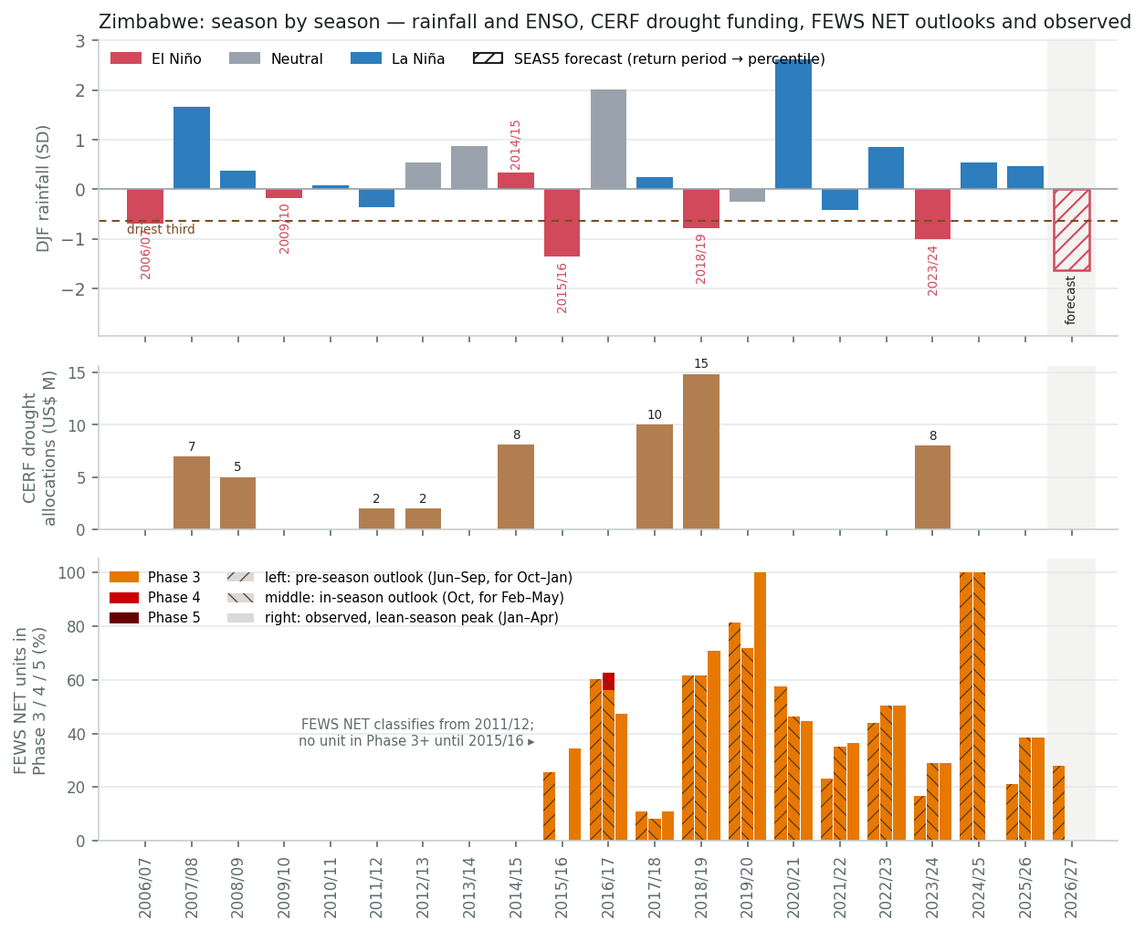
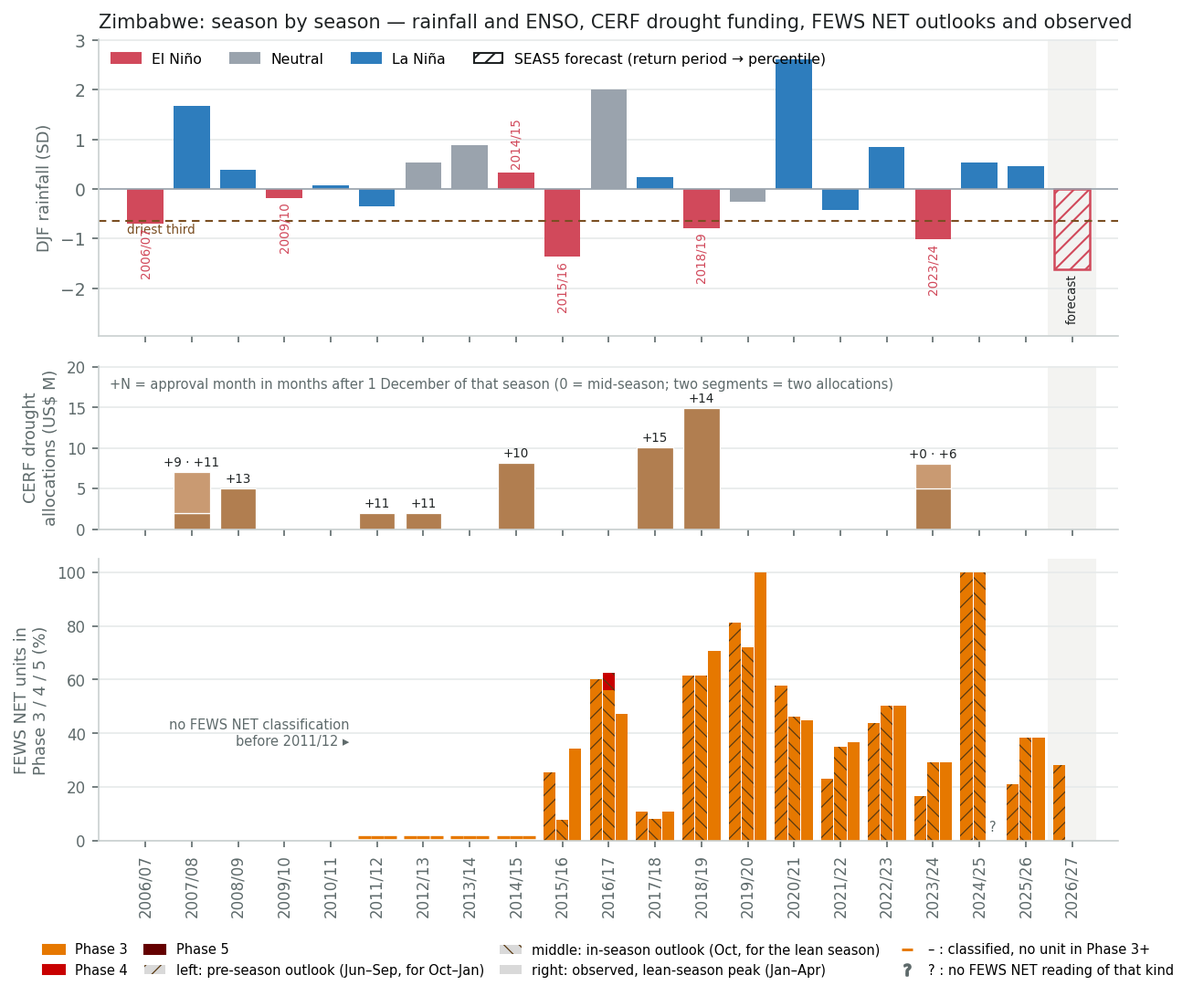
Season figure: CERF timing labels, FEWS NET zeros vs missing readings
Each CERF allocation is its own bar segment, labelled above the bar with its
approval month counted in months after 1 December of that season; the table's
CERF cell carries the same "+N mo". In the FEWS NET panel a classified reading
with no unit in Phase 3+ shows a dash, a reading FEWS NET did not publish shows
a question mark; the in-season outlook accepts the October round's second
window whether it starts in January (pre-2016 calendar) or February. Legend
moved below the axis so it no longer covers the 2019/20 bars.

diff --git a/docs/enso/zwe/index.html b/docs/enso/zwe/index.html
@@ -98,28 +98,28 @@ a{color:var(--b6)}
 <h2>Season by season: rainfall, El Niño, CERF and FEWS NET</h2>
 <p>Every season since 1981 on one line: how dry it was, whether it was an El Niño season, whether CERF funded a drought response for it, and what FEWS NET was projecting for October–January before that season began — the same product as the projection we have now, so the rows are comparable with the top one. Phase 4 (Emergency) has appeared once in FEWS NET's Zimbabwe record — the October 2016 outlook projected twelve southern units into Emergency for February–April 2017, the lean season after the 2015/16 drought — and never in a current-situation classification; Phase 5 never. The El Niño seasons that became disasters started from very different places: 2015/16 from 26% of units projected in Crisis, 2023/24 from 17%; the seasons after them (2016/17, 2024/25) began from 60% and 100%. 2026/27 begins from 28%.</p>
 
-<figure><img src="seasons.png" alt="Season-by-season time series"><figcaption>The table as a time series: DJF rainfall anomaly coloured by ENSO phase (hatched = the SEAS5 forecast for the coming season, its return period converted to a percentile); CERF drought allocations by season; and, per season, three FEWS NET readings as stacked shares of units in Phase 3, 4 and 5 — the pre-season outlook (issued June–September for October–January, the product we have now), the in-season outlook (issued in October for February–May) and the observed current situation at the lean-season peak (January–April). From 2006/07, when CERF began. Shaded column = the season being forecast.</figcaption></figure>
+<figure><img src="seasons.png" alt="Season-by-season time series"><figcaption>The table as a time series: DJF rainfall anomaly coloured by ENSO phase (hatched = the SEAS5 forecast for the coming season, its return period converted to a percentile); CERF drought allocations by season, each labelled with its approval month and its timing in months after 1 December of that season; and, per season, three FEWS NET readings as stacked shares of units in Phase 3, 4 and 5 — the pre-season outlook (issued June–September for October–January, the product we have now), the in-season outlook (issued in October for the January/February–April/May lean season) and the observed current situation at the lean-season peak (January–April); a dash marks a classification with no unit in Phase 3+, a question mark a reading FEWS NET did not publish. From 2006/07, when CERF began. Shaded column = the season being forecast.</figcaption></figure>
 <div style="overflow-x:auto"><table class="skill seasons"><thead><tr><th>Season</th><th class="num">DJF rainfall<br><span class="small">anomaly (SD) · rank, 1 = driest</span></th><th>ENSO<br><span class="small">Niño3.4 in DJF</span></th><th>CERF drought allocation<br><span class="small">for this season's drought</span></th><th class="num">FEWS NET outlook for Oct–Jan, issued before the season<br><span class="small">share of units in Phase 3 / 4 / 5</span></th></tr></thead><tbody>
 <tr style="border-top:2px solid #c9d0d0"><td><strong>2026/27 (forecast)</strong></td><td class="num"><span class="small">SEAS5 Sep issuance: dry, return period 19 yr (moderate skill)</span></td><td><span class="chip" style="background:#D1495B;color:#fff;margin:0">El Niño</span> <span class="small">+1.89 in Aug 2026</span></td><td><span class=small>—</span></td><td class="num" style="background:rgba(230,120,0,0.23)">28% / 0% / 0%<br><span class="small">Oct 2026–Jan 2027 · round 2026-08 (ML2) · 203 units</span></td></tr>
 <tr><td>2025/26</td><td class="num" style="background:rgba(94,159,210,0.18)">+0.47 · 32 of 45</td><td><span class="chip" style="background:#2E7DBD;color:#fff;margin:0">La Niña</span> <span class="small">-0.51</span></td><td><span class=small>—</span></td><td class="num" style="background:rgba(230,120,0,0.20)">21% / 0% / 0%<br><span class="small">Oct 2025–Jan 2026 · round 2025-10 (ML1, issued in October) · 203 units</span></td></tr>
 <tr><td>2024/25</td><td class="num" style="background:rgba(94,159,210,0.19)">+0.54 · 33 of 45</td><td><span class="chip" style="background:#2E7DBD;color:#fff;margin:0">La Niña</span> <span class="small">-0.59</span></td><td><span class=small>—</span></td><td class="num" style="background:rgba(230,120,0,0.63)">100% / 0% / 0%<br><span class="small">Oct 2024–Jan 2025 · round 2024-09 (ML2) · 203 units</span></td></tr>
-<tr><td>2023/24</td><td class="num" style="background:rgba(122,78,34,0.44)">−1.00 · 9 of 45</td><td><span class="chip" style="background:#D1495B;color:#fff;margin:0">El Niño</span> <span class="small">+1.79</span></td><td style="background:rgba(177,126,80,0.38)">US$ 8.0 M · Dec 2023 (Rapid, 5.0 M); Jun 2024 (Rapid, 3.0 M)</td><td class="num" style="background:rgba(230,120,0,0.17)">17% / 0% / 0%<br><span class="small">Oct 2023–Jan 2024 · round 2023-09 (ML2) · 203 units</span></td></tr>
+<tr><td>2023/24</td><td class="num" style="background:rgba(122,78,34,0.44)">−1.00 · 9 of 45</td><td><span class="chip" style="background:#D1495B;color:#fff;margin:0">El Niño</span> <span class="small">+1.79</span></td><td style="background:rgba(177,126,80,0.38)">US$ 8.0 M · Dec 2023 (Rapid, 5.0 M, +0 mo); Jun 2024 (Rapid, 3.0 M, +6 mo)</td><td class="num" style="background:rgba(230,120,0,0.17)">17% / 0% / 0%<br><span class="small">Oct 2023–Jan 2024 · round 2023-09 (ML2) · 203 units</span></td></tr>
 <tr><td>2022/23</td><td class="num" style="background:rgba(94,159,210,0.23)">+0.85 · 36 of 45</td><td><span class="chip" style="background:#2E7DBD;color:#fff;margin:0">La Niña</span> <span class="small">-0.68</span></td><td><span class=small>—</span></td><td class="num" style="background:rgba(230,120,0,0.32)">44% / 0% / 0%<br><span class="small">Oct 2022–Jan 2023 · round 2022-09 (ML2) · 189 units</span></td></tr>
 <tr><td>2021/22</td><td class="num" style="background:rgba(122,78,34,0.23)">−0.42 · 17 of 45</td><td><span class="chip" style="background:#2E7DBD;color:#fff;margin:0">La Niña</span> <span class="small">-0.96</span></td><td><span class=small>—</span></td><td class="num" style="background:rgba(230,120,0,0.21)">23% / 0% / 0%<br><span class="small">Oct 2021–Jan 2022 · round 2021-09 (ML2) · 203 units</span></td></tr>
 <tr><td>2020/21</td><td class="num" style="background:rgba(94,159,210,0.35)">+2.62 · 45 of 45</td><td><span class="chip" style="background:#2E7DBD;color:#fff;margin:0">La Niña</span> <span class="small">-1.05</span></td><td><span class=small>—</span></td><td class="num" style="background:rgba(230,120,0,0.40)">58% / 0% / 0%<br><span class="small">Oct 2020–Jan 2021 · round 2020-09 (ML2) · 203 units</span></td></tr>
 <tr><td>2019/20</td><td class="num" style="background:rgba(122,78,34,0.15)">−0.25 · 20 of 45</td><td><span class="chip" style="background:#9AA3AD;color:#fff;margin:0">Neutral</span> <span class="small">+0.50</span></td><td><span class=small>—</span></td><td class="num" style="background:rgba(230,120,0,0.53)">81% / 0% / 0%<br><span class="small">Oct 2019–Jan 2020 · round 2019-06 (ML2) · 203 units</span></td></tr>
-<tr><td>2018/19</td><td class="num" style="background:rgba(122,78,34,0.39)">−0.78 · 11 of 45</td><td><span class="chip" style="background:#D1495B;color:#fff;margin:0">El Niño</span> <span class="small">+0.75</span></td><td style="background:rgba(177,126,80,0.63)">US$ 14.9 M · Feb 2020 (Rapid, 14.9 M)</td><td class="num" style="background:rgba(230,120,0,0.42)">62% / 0% / 0%<br><span class="small">Oct 2018–Dec 2018 · round 2018-06 (ML2) · 203 units</span></td></tr>
-<tr><td>2017/18</td><td class="num" style="background:rgba(94,159,210,0.08)">+0.25 · 25 of 45</td><td><span class="chip" style="background:#2E7DBD;color:#fff;margin:0">La Niña</span> <span class="small">-0.91</span></td><td style="background:rgba(177,126,80,0.45)">US$ 10.1 M · Mar 2019 (Rapid, 10.1 M)</td><td class="num" style="background:rgba(230,120,0,0.14)">11% / 0% / 0%<br><span class="small">Oct 2017–Dec 2017 · round 2017-06 (ML2) · 203 units</span></td></tr>
+<tr><td>2018/19</td><td class="num" style="background:rgba(122,78,34,0.39)">−0.78 · 11 of 45</td><td><span class="chip" style="background:#D1495B;color:#fff;margin:0">El Niño</span> <span class="small">+0.75</span></td><td style="background:rgba(177,126,80,0.63)">US$ 14.9 M · Feb 2020 (Rapid, 14.9 M, +14 mo)</td><td class="num" style="background:rgba(230,120,0,0.42)">62% / 0% / 0%<br><span class="small">Oct 2018–Dec 2018 · round 2018-06 (ML2) · 203 units</span></td></tr>
+<tr><td>2017/18</td><td class="num" style="background:rgba(94,159,210,0.08)">+0.25 · 25 of 45</td><td><span class="chip" style="background:#2E7DBD;color:#fff;margin:0">La Niña</span> <span class="small">-0.91</span></td><td style="background:rgba(177,126,80,0.45)">US$ 10.1 M · Mar 2019 (Rapid, 10.1 M, +15 mo)</td><td class="num" style="background:rgba(230,120,0,0.14)">11% / 0% / 0%<br><span class="small">Oct 2017–Dec 2017 · round 2017-06 (ML2) · 203 units</span></td></tr>
 <tr><td>2016/17</td><td class="num" style="background:rgba(94,159,210,0.34)">+2.01 · 44 of 45</td><td><span class="chip" style="background:#9AA3AD;color:#fff;margin:0">Neutral</span> <span class="small">-0.34</span></td><td><span class=small>—</span></td><td class="num" style="background:rgba(230,120,0,0.41)">60% / 0% / 0%<br><span class="small">Oct 2016–Dec 2016 · round 2016-06 (ML2) · 203 units</span></td></tr>
 <tr><td>2015/16</td><td class="num" style="background:rgba(122,78,34,0.63)">−1.36 · 2 of 45</td><td><span class="chip" style="background:#D1495B;color:#fff;margin:0">El Niño</span> <span class="small">+2.50</span></td><td><span class=small>—</span></td><td class="num" style="background:rgba(230,120,0,0.22)">26% / 0% / 0%<br><span class="small">Oct 2015–Dec 2015 · round 2015-07 (ML2) · 203 units</span></td></tr>
-<tr><td>2014/15</td><td class="num" style="background:rgba(94,159,210,0.12)">+0.34 · 28 of 45</td><td><span class="chip" style="background:#D1495B;color:#fff;margin:0">El Niño</span> <span class="small">+0.55</span></td><td style="background:rgba(177,126,80,0.38)">US$ 8.1 M · Oct 2015 (Rapid, 8.1 M)</td><td class="num">0% / 0% / 0%<br><span class="small">Oct 2014–Dec 2014 · round 2014-07 (ML2) · 203 units</span></td></tr>
+<tr><td>2014/15</td><td class="num" style="background:rgba(94,159,210,0.12)">+0.34 · 28 of 45</td><td><span class="chip" style="background:#D1495B;color:#fff;margin:0">El Niño</span> <span class="small">+0.55</span></td><td style="background:rgba(177,126,80,0.38)">US$ 8.1 M · Oct 2015 (Rapid, 8.1 M, +10 mo)</td><td class="num">0% / 0% / 0%<br><span class="small">Oct 2014–Dec 2014 · round 2014-07 (ML2) · 203 units</span></td></tr>
 <tr><td>2013/14</td><td class="num" style="background:rgba(94,159,210,0.24)">+0.88 · 37 of 45</td><td><span class="chip" style="background:#9AA3AD;color:#fff;margin:0">Neutral</span> <span class="small">-0.43</span></td><td><span class=small>—</span></td><td class="num">0% / 0% / 0%<br><span class="small">Oct 2013–Dec 2013 · round 2013-07 (ML2) · 108 units</span></td></tr>
-<tr><td>2012/13</td><td class="num" style="background:rgba(94,159,210,0.20)">+0.54 · 34 of 45</td><td><span class="chip" style="background:#9AA3AD;color:#fff;margin:0">Neutral</span> <span class="small">-0.43</span></td><td style="background:rgba(177,126,80,0.15)">US$ 2.0 M · Nov 2013 (Rapid, 2.0 M)</td><td class="num">0% / 0% / 0%<br><span class="small">Oct 2012–Dec 2012 · round 2012-07 (ML2) · 68 units</span></td></tr>
-<tr><td>2011/12</td><td class="num" style="background:rgba(122,78,34,0.17)">−0.35 · 19 of 45</td><td><span class="chip" style="background:#2E7DBD;color:#fff;margin:0">La Niña</span> <span class="small">-0.87</span></td><td style="background:rgba(177,126,80,0.15)">US$ 2.0 M · Nov 2012 (Rapid, 2.0 M)</td><td class="num">0% / 0% / 0%<br><span class="small">Oct 2011–Dec 2011 · round 2011-07 (ML2) · 85 units</span></td></tr>
+<tr><td>2012/13</td><td class="num" style="background:rgba(94,159,210,0.20)">+0.54 · 34 of 45</td><td><span class="chip" style="background:#9AA3AD;color:#fff;margin:0">Neutral</span> <span class="small">-0.43</span></td><td style="background:rgba(177,126,80,0.15)">US$ 2.0 M · Nov 2013 (Rapid, 2.0 M, +11 mo)</td><td class="num">0% / 0% / 0%<br><span class="small">Oct 2012–Dec 2012 · round 2012-07 (ML2) · 68 units</span></td></tr>
+<tr><td>2011/12</td><td class="num" style="background:rgba(122,78,34,0.17)">−0.35 · 19 of 45</td><td><span class="chip" style="background:#2E7DBD;color:#fff;margin:0">La Niña</span> <span class="small">-0.87</span></td><td style="background:rgba(177,126,80,0.15)">US$ 2.0 M · Nov 2012 (Rapid, 2.0 M, +11 mo)</td><td class="num">0% / 0% / 0%<br><span class="small">Oct 2011–Dec 2011 · round 2011-07 (ML2) · 85 units</span></td></tr>
 <tr><td>2010/11</td><td class="num" style="background:rgba(94,159,210,0.06)">+0.08 · 23 of 45</td><td><span class="chip" style="background:#2E7DBD;color:#fff;margin:0">La Niña</span> <span class="small">-1.42</span></td><td><span class=small>—</span></td><td class="num"><span class=small>—</span></td></tr>
 <tr><td>2009/10</td><td class="num" style="background:rgba(122,78,34,0.12)">−0.18 · 21 of 45</td><td><span class="chip" style="background:#D1495B;color:#fff;margin:0">El Niño</span> <span class="small">+1.50</span></td><td><span class=small>—</span></td><td class="num"><span class=small>—</span></td></tr>
-<tr><td>2008/09</td><td class="num" style="background:rgba(94,159,210,0.15)">+0.38 · 30 of 45</td><td><span class="chip" style="background:#2E7DBD;color:#fff;margin:0">La Niña</span> <span class="small">-0.85</span></td><td style="background:rgba(177,126,80,0.26)">US$ 5.0 M · Jan 2010 (Rapid, 5.0 M, by date)</td><td class="num"><span class=small>—</span></td></tr>
-<tr><td>2007/08</td><td class="num" style="background:rgba(94,159,210,0.32)">+1.67 · 43 of 45</td><td><span class="chip" style="background:#2E7DBD;color:#fff;margin:0">La Niña</span> <span class="small">-1.64</span></td><td style="background:rgba(177,126,80,0.34)">US$ 7.0 M · Sep 2008 (Rapid, 2.0 M, by date); Nov 2008 (Rapid, 5.0 M, by date)</td><td class="num"><span class=small>—</span></td></tr>
+<tr><td>2008/09</td><td class="num" style="background:rgba(94,159,210,0.15)">+0.38 · 30 of 45</td><td><span class="chip" style="background:#2E7DBD;color:#fff;margin:0">La Niña</span> <span class="small">-0.85</span></td><td style="background:rgba(177,126,80,0.26)">US$ 5.0 M · Jan 2010 (Rapid, 5.0 M, +13 mo, by date)</td><td class="num"><span class=small>—</span></td></tr>
+<tr><td>2007/08</td><td class="num" style="background:rgba(94,159,210,0.32)">+1.67 · 43 of 45</td><td><span class="chip" style="background:#2E7DBD;color:#fff;margin:0">La Niña</span> <span class="small">-1.64</span></td><td style="background:rgba(177,126,80,0.34)">US$ 7.0 M · Sep 2008 (Rapid, 2.0 M, +9 mo, by date); Nov 2008 (Rapid, 5.0 M, +11 mo, by date)</td><td class="num"><span class=small>—</span></td></tr>
 <tr><td>2006/07</td><td class="num" style="background:rgba(122,78,34,0.28)">−0.69 · 15 of 45</td><td><span class="chip" style="background:#D1495B;color:#fff;margin:0">El Niño</span> <span class="small">+0.66</span></td><td><span class=small>—</span></td><td class="num"><span class=small>—</span></td></tr>
 <tr><td>2005/06</td><td class="num" style="background:rgba(94,159,210,0.26)">+0.92 · 38 of 45</td><td><span class="chip" style="background:#2E7DBD;color:#fff;margin:0">La Niña</span> <span class="small">-0.83</span></td><td><span class=small>—</span></td><td class="num"><span class=small>—</span></td></tr>
 <tr><td>2004/05</td><td class="num" style="background:rgba(122,78,34,0.33)">−0.76 · 13 of 45</td><td><span class="chip" style="background:#D1495B;color:#fff;margin:0">El Niño</span> <span class="small">+0.59</span></td><td><span class=small>—</span></td><td class="num"><span class=small>—</span></td></tr>
@@ -147,7 +147,7 @@ a{color:var(--b6)}
 <tr><td>1982/83</td><td class="num" style="background:rgba(122,78,34,0.57)">−1.29 · 4 of 45</td><td><span class="chip" style="background:#D1495B;color:#fff;margin:0">El Niño</span> <span class="small">+2.16</span></td><td><span class=small>—</span></td><td class="num"><span class=small>—</span></td></tr>
 <tr><td>1981/82</td><td class="num" style="background:rgba(122,78,34,0.52)">−1.16 · 6 of 45</td><td><span class="chip" style="background:#9AA3AD;color:#fff;margin:0">Neutral</span> <span class="small">-0.08</span></td><td><span class=small>—</span></td><td class="num"><span class=small>—</span></td></tr>
 </tbody></table></div>
-<p class="small">Rainfall: ERA5 area mean over the rain-fed cells, standardised over 1981–2026. ENSO phase: concurrent Niño3.4 (≥ +0.5 El Niño, ≤ −0.5 La Niña; pinned NOAA series). CERF: Rapid Response / Underfunded Emergencies applications with emergency type “Drought” from the team's OneGMS mirror, attributed to the rainy season named in the CERF drought-period supplement (or, failing that, to the season whose harvest year the allocation fell in; “by date”). FEWS NET: the outlook for October–January issued between June and September of that year — the same product as the current medium-term projection, so each row shows the pre-season picture that season started from — as shares of FEWS NET's classified units in Phase 3, 4 and 5 (unit counts, since older unit vintages carry no geometry; FEWS NET classifies areas and publishes no population by phase). “Issued in October” marks a year with no June–September outlook. Cells are shaded darker for worse outcomes; most recent season first, the forecast season on top.</p>
+<p class="small">Rainfall: ERA5 area mean over the rain-fed cells, standardised over 1981–2026. ENSO phase: concurrent Niño3.4 (≥ +0.5 El Niño, ≤ −0.5 La Niña; pinned NOAA series). CERF: Rapid Response / Underfunded Emergencies applications with emergency type “Drought” from the team's OneGMS mirror, attributed to the rainy season named in the CERF drought-period supplement (or, failing that, to the season whose harvest year the allocation fell in; “by date”); “+N mo” is the approval month counted from 1 December of that season. FEWS NET: the outlook for October–January issued between June and September of that year — the same product as the current medium-term projection, so each row shows the pre-season picture that season started from — as shares of FEWS NET's classified units in Phase 3, 4 and 5 (unit counts, since older unit vintages carry no geometry; FEWS NET classifies areas and publishes no population by phase). “Issued in October” marks a year with no June–September outlook. Cells are shaded darker for worse outcomes; most recent season first, the forecast season on top.</p>
 <h2>3. How much of this is El Niño?</h2>
 <p class="small">Latest Niño3.4 in NOAA PSL's current series: +1.89 °C for August 2026 (three-month mean +1.73), i.e. El Niño conditions by the ±0.5 threshold used on this page. The historical analysis below uses the survey's pinned Niño3.4 series (NOAA PSL, ERSST v5 basis), which runs about 0.2 °C cooler than the current ERSST v6 series.</p>
 <p>Two things establish how much of the forecast is El Niño: the current state of the Pacific, and how tightly Zimbabwe's rainfall has followed it. Everything below is computed from the ERA5 monthly grid and the NOAA Niño3.4 index used by the global survey, restricted to cells inside the country.</p>

diff --git a/enso_deep_dive.py b/enso_deep_dive.py
@@ -734,8 +734,10 @@ def load_fews(iso3: str) -> dict | None:
             rd = pick.reporting_date.max(); h = pick[pick.reporting_date == rd]
             entry["pre"] = share(h) | dict(round=rd, doc=h.doc.iloc[0], scenario=h.scenario.iloc[0], pre_season=bool(len(pre)),
                                            window=_window(h.projection_start.iloc[0], h.projection_end.iloc[0]))
-        # in-season outlook: window starting 1 Feb Y+1, issued Oct Y – Jan Y+1 (earliest such round = the October outlook)
-        g = ml[(ml.projection_start == f"{yr + 1}-02-01") & (ml.reporting_date >= f"{yr}-10") & (ml.reporting_date <= f"{yr + 1}-01")]
+        # in-season outlook: the October outlook's second window (starts 1 Jan or 1 Feb Y+1 depending on the
+        # era's calendar), issued Oct Y – Jan Y+1; earliest such round = the October outlook
+        g = ml[(ml.projection_start >= f"{yr + 1}-01-01") & (ml.projection_start <= f"{yr + 1}-02-01")
+               & (ml.reporting_date >= f"{yr}-10") & (ml.reporting_date <= f"{yr + 1}-01")]
         if len(g):
             rd = g.reporting_date.min(); h = g[g.reporting_date == rd]
             entry["mid"] = share(h) | dict(round=rd, doc=h.doc.iloc[0], scenario=h.scenario.iloc[0],
@@ -951,7 +953,7 @@ def season_table(iso3: str, df: pd.DataFrame, head: str, fews: dict | None, fore
     def build_row(yr: int, r):
         cy0, cy1 = pd.Timestamp(yr + 1, 4, 1), pd.Timestamp(yr + 2, 3, 31)   # consumption year
         # CERF: supplement valid period first, else allocation date in the consumption year
-        cerf_txt, cerf_usd = "", 0.0
+        cerf_txt, cerf_usd, cerf_items = "", 0.0, []
         if len(cerf):
             def season_of(a):
                 """Season the allocation responds to: the supplement's dated rainy season when present
@@ -966,10 +968,15 @@ def season_table(iso3: str, df: pd.DataFrame, head: str, fews: dict | None, fore
             hits = cerf[[y == yr for y, _ in att]]
             dated = [ok for (y, ok) in att if y == yr]
             cerf_usd = float(hits.amount_approved.sum()) if len(hits) else 0.0
+            cerf_items = []
+            for (_, a), ok in zip(hits.iterrows(), dated):
+                d = a.first_project_approved_date
+                lag = (d.year - yr) * 12 + d.month - 12          # months after 1 December of the season
+                cerf_items.append(dict(date=d, usd=float(a.amount_approved), lag=int(lag), window=a.window_name.split()[0], dated=ok))
             if len(hits):
                 cerf_txt = f'US$ {hits.amount_approved.sum() / 1e6:.1f} M · ' + "; ".join(
-                    f'{a.first_project_approved_date:%b %Y} ({a.window_name.split()[0]}, {a.amount_approved / 1e6:.1f} M{"" if ok else ", by date"})'
-                    for (_, a), ok in zip(hits.iterrows(), dated))
+                    f'{it["date"]:%b %Y} ({it["window"]}, {it["usd"] / 1e6:.1f} M, {it["lag"]:+d} mo{"" if it["dated"] else ", by date"})'
+                    for it in cerf_items)
         # FEWS NET pre-season outlook for Oct Y – Jan Y+1 (issued Jun–Sep Y): shares of units in Phase 3 / 4 / 5
         fw = (outlook.get(yr) or {}).get("pre")
         if fw:
@@ -979,7 +986,7 @@ def season_table(iso3: str, df: pd.DataFrame, head: str, fews: dict | None, fore
         else:
             fews_txt, fews_src, p3, p4, p5 = "", "", np.nan, np.nan, np.nan
         fews_all = outlook.get(yr) or {}
-        extra = dict(cerf_usd=cerf_usd, p3=p3, p4=p4, p5=p5, fews=fews_txt, fews_src=fews_src, fews_all=fews_all)
+        extra = dict(cerf_usd=cerf_usd, cerf_items=cerf_items, p3=p3, p4=p4, p5=p5, fews=fews_txt, fews_src=fews_src, fews_all=fews_all)
         if r is None:
             return dict(year=yr, label=f"{yr}/{str(yr + 1)[-2:]}", z=None, rank=None, n=n_all, nino=None, phase="Neutral",
                         cerf=cerf_txt, forecast=None, gap=True, **extra)
@@ -1056,36 +1063,54 @@ def fig_seasons(rows: list[dict], head: str, out: Path, name: str, start_year: i
     ax.set_title(f"{name}: season by season — rainfall and ENSO, CERF drought funding, FEWS NET outlooks and observed", fontsize=10, color=C_TEXT, loc="left")
     _style_ax(ax)
     ax = axes[1]
-    ax.bar([r["year"] for r in rows], [r.get("cerf_usd", 0) / 1e6 for r in rows], color="#B17E50", width=0.78)
     for r in rows:
-        if r.get("cerf_usd", 0) > 0:
-            ax.text(r["year"], r["cerf_usd"] / 1e6 + 0.3, f'{r["cerf_usd"] / 1e6:.0f}', fontsize=6.5, color=C_TEXT, ha="center", va="bottom")
+        base = 0.0
+        items = sorted(r.get("cerf_items", []), key=lambda d: d["date"])
+        for k, it in enumerate(items):
+            h = it["usd"] / 1e6
+            ax.bar([r["year"]], [h], bottom=base, width=0.78, color="#B17E50" if k % 2 == 0 else "#C99A72", edgecolor="white", linewidth=0.6)
+            base += h
+        if items:
+            ax.text(r["year"], base + 0.4, " · ".join(f'{it["lag"]:+d}' for it in items), fontsize=6.5, color=C_TEXT, ha="center", va="bottom")
     ax.set_ylabel("CERF drought\nallocations (US$ M)", fontsize=8.5, color=C_MUTED); _style_ax(ax)
+    ax.set_ylim(0, max([r.get("cerf_usd", 0) / 1e6 for r in rows] + [1]) * 1.35)
+    ax.text(0.01, 0.93, "+N = approval month in months after 1 December of that season (0 = mid-season; two segments = two allocations)",
+            transform=ax.transAxes, fontsize=7, color=C_MUTED, va="top")
     ax = axes[2]
     plt.rcParams["hatch.linewidth"] = 0.6
     kinds = [("pre", -0.28, "pre-season outlook (issued Jun–Sep, for Oct–Jan)", dict(hatch="///", edgecolor="#5a3a12", linewidth=0)),
-             ("mid", 0.0, "in-season outlook (issued Oct, for Feb–May)", dict(hatch="\\\\\\", edgecolor="#5a3a12", linewidth=0)),
+             ("mid", 0.0, "in-season outlook (issued Oct, for Jan/Feb–Apr/May)", dict(hatch="\\\\\\", edgecolor="#5a3a12", linewidth=0)),
              ("obs", 0.28, "observed at the lean-season peak (Jan–Apr)", dict(edgecolor="none", linewidth=0))]
+    fews_years = sorted({int(y) for r in rows for y in [r["year"]] if r.get("fews_all")})
+    first_fews_year = min(fews_years) if fews_years else None
     for key, off, _, style in kinds:
         for r in rows:
             e = (r.get("fews_all") or {}).get(key)
+            x = r["year"] + off
             if not e:
+                # no reading of this kind for this season: a question mark, but only once FEWS NET covers the country
+                if first_fews_year is not None and r["year"] >= first_fews_year and not r.get("forecast"):
+                    ax.text(x, 2.5, "?", fontsize=7, color=C_MUTED, ha="center", va="bottom")
                 continue
-            x = r["year"] + off; base = 0.0
+            base = 0.0
             for ph in (3, 4, 5):
                 v = 100 * e[f"p{ph}"]
                 if v > 0:
                     ax.bar([x], [v], bottom=base, width=0.26, color=IPC_COLOURS[ph], **style)
                     base += v
+            if base == 0:
+                ax.plot([x], [1.5], marker="_", ms=7, color=IPC_COLOURS[3], mew=1.6, clip_on=False)   # classified, none in Phase 3+
     ax.set_ylabel("FEWS NET units in\nPhase 3 / 4 / 5 (%)", fontsize=8.5, color=C_MUTED); ax.set_ylim(0, 105); _style_ax(ax)
     handles = [Patch(color=IPC_COLOURS[3], label="Phase 3"), Patch(color=IPC_COLOURS[4], label="Phase 4"), Patch(color=IPC_COLOURS[5], label="Phase 5"),
                Patch(facecolor="#d9d9d9", hatch="///", edgecolor="#5a3a12", linewidth=0, label="left: pre-season outlook (Jun–Sep, for Oct–Jan)"),
-               Patch(facecolor="#d9d9d9", hatch="\\\\\\", edgecolor="#5a3a12", linewidth=0, label="middle: in-season outlook (Oct, for Feb–May)"),
-               Patch(facecolor="#d9d9d9", edgecolor="none", label="right: observed, lean-season peak (Jan–Apr)")]
-    ax.legend(handles=handles, frameon=False, fontsize=7, loc="upper left", ncol=2)
-    first_p3 = min([r["year"] for r in rows if any((e.get("p3", 0) + e.get("p4", 0) + e.get("p5", 0)) > 0 for e in (r.get("fews_all") or {}).values())] or [yrs[0]])
-    if first_p3 > yrs[0]:
-        ax.text(first_p3 - 0.6, 40, f"FEWS NET classifies from {first_fews}/{str(first_fews + 1)[-2:]};\nno unit in Phase 3+ until {first_p3}/{str(first_p3 + 1)[-2:]} ▸",
+               Patch(facecolor="#d9d9d9", hatch="\\\\\\", edgecolor="#5a3a12", linewidth=0, label="middle: in-season outlook (Oct, for the lean season)"),
+               Patch(facecolor="#d9d9d9", edgecolor="none", label="right: observed, lean-season peak (Jan–Apr)"),
+               plt.Line2D([], [], marker="_", ms=6, mew=1.4, color=IPC_COLOURS[3], ls="", label="– : classified, no unit in Phase 3+"),
+               plt.Line2D([], [], marker="$?$", ms=6, color=C_MUTED, ls="", label="? : no FEWS NET reading of that kind")]
+    ax.legend(handles=handles, frameon=False, fontsize=7, loc="upper center", bbox_to_anchor=(0.5, -0.32), ncol=4,
+              handlelength=1.6, columnspacing=1.2)
+    if first_fews_year is not None and first_fews_year > yrs[0]:
+        ax.text(first_fews_year - 0.6, 40, f"no FEWS NET classification\nbefore {first_fews_year}/{str(first_fews_year + 1)[-2:]} ▸",
                 fontsize=7, color=C_MUTED, ha="right", va="center")
     ax.set_xlim(yrs.min() - 1, yrs.max() + 1)
     ax.set_xticks(list(yrs)); ax.set_xticklabels([f"{y}/{str(y + 1)[-2:]}" for y in yrs], rotation=90)
@@ -1104,10 +1129,10 @@ def render_seasons(spec: dict, a: dict, head: str, title: str | None = None) -> 
     out.append(spec.get("seasons_html", ""))
     out.append(f'<figure><img src="seasons.png" alt="Season-by-season time series"><figcaption>The table as a time series: '
                f'{head} rainfall anomaly coloured by ENSO phase (hatched = the SEAS5 forecast for the coming season, its return period '
-               f'converted to a percentile); CERF drought allocations by season; and, per season, three FEWS NET readings as stacked '
+               f'converted to a percentile); CERF drought allocations by season, each labelled with its approval month and its timing in months after 1 December of that season; and, per season, three FEWS NET readings as stacked '
                f'shares of units in Phase 3, 4 and 5 — the pre-season outlook (issued June–September for October–January, the product '
-               f'we have now), the in-season outlook (issued in October for February–May) and the observed current situation at the '
-               f'lean-season peak (January–April). From 2006/07, when CERF began. Shaded column = the season being forecast.</figcaption></figure>')
+               f'we have now), the in-season outlook (issued in October for the January/February–April/May lean season) and the observed current situation at the '
+               f'lean-season peak (January–April); a dash marks a classification with no unit in Phase 3+, a question mark a reading FEWS NET did not publish. From 2006/07, when CERF began. Shaded column = the season being forecast.</figcaption></figure>')
     rows = list(reversed(rows))   # recent first, forecast on top
     max_cerf = max([r.get("cerf_usd", 0) for r in rows] + [1.0])
 
@@ -1155,7 +1180,7 @@ def render_seasons(spec: dict, a: dict, head: str, title: str | None = None) -> 
     out.append(f'<p class="small">Rainfall: ERA5 area mean over the rain-fed cells, standardised over 1981–{END_YEAR}. ENSO phase: concurrent Niño3.4 '
                f'(≥ +{ENSO_THRESH} El Niño, ≤ −{ENSO_THRESH} La Niña; pinned NOAA series). CERF: Rapid Response / Underfunded Emergencies applications with '
                'emergency type “Drought” from the team\'s OneGMS mirror, attributed to the rainy season named in the CERF drought-period '
-               'supplement (or, failing that, to the season whose harvest year the allocation fell in; “by date”). FEWS NET: the outlook for '
+               'supplement (or, failing that, to the season whose harvest year the allocation fell in; “by date”); “+N mo” is the approval month counted from 1 December of that season. FEWS NET: the outlook for '
                'October–January issued between June and September of that year — the same product as the current medium-term projection, so '
                'each row shows the pre-season picture that season started from — as shares of FEWS NET\'s classified units in Phase 3, 4 and 5 '
                '(unit counts, since older unit vintages carry no geometry; FEWS NET classifies areas and publishes no population by phase). '
